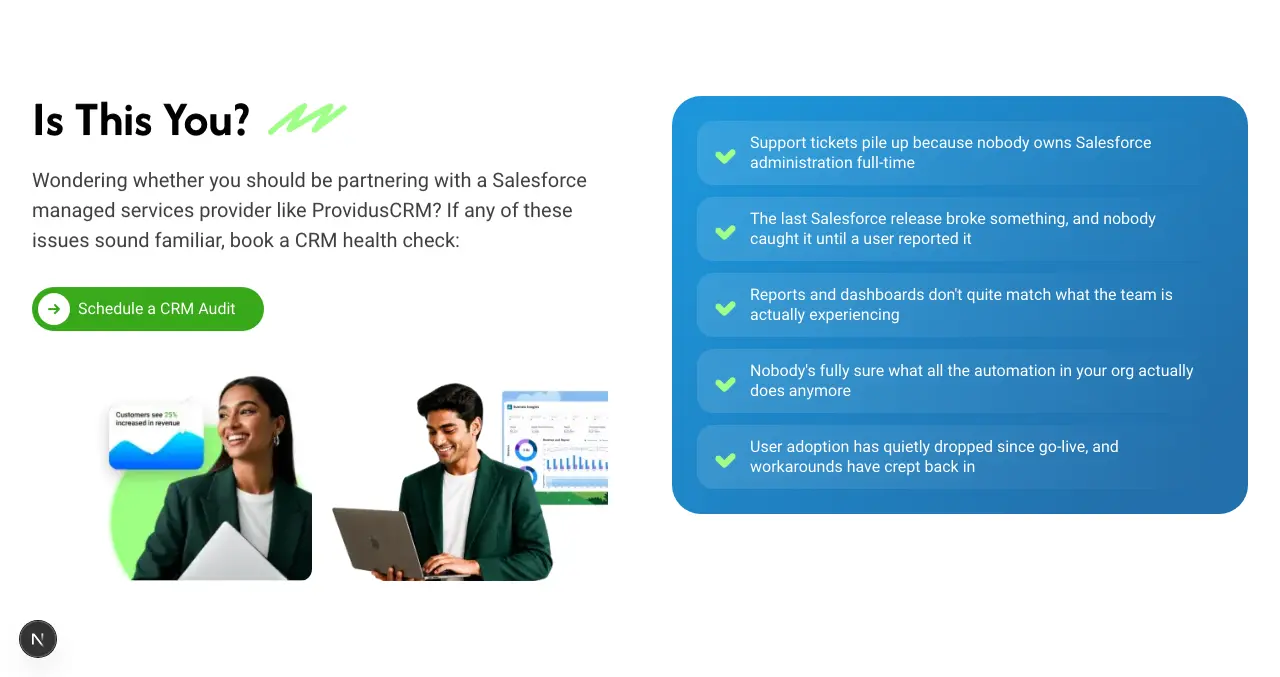
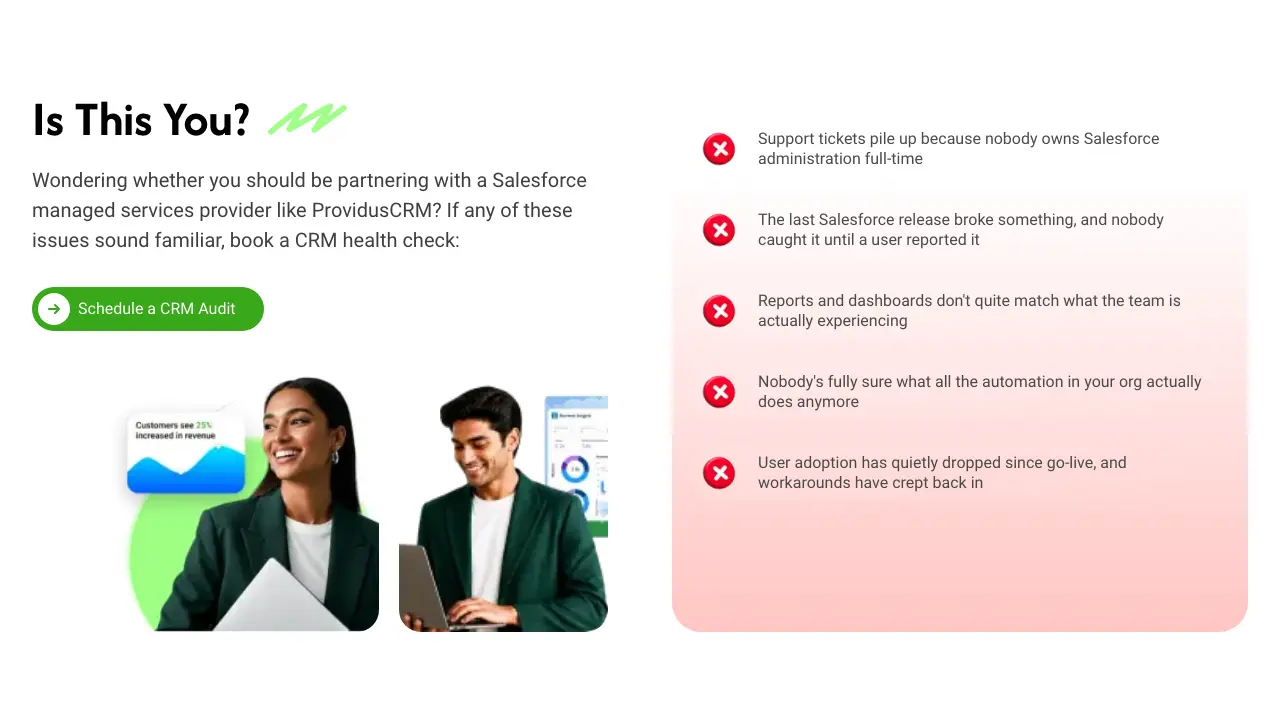
fix(service-page): red "Is This You?" panel with bottom-aligned images
Matches Figma 369:625: red gradient panel with cross markers, and the left
images pinned to the bottom of the panel.

diff --git a/src/components/sections/SplitChecklistSection.tsx b/src/components/sections/SplitChecklistSection.tsx
@@ -7,6 +7,7 @@ import { CtaButton } from "@/components/ui/CtaButton";
 import { GreenLineMark } from "@/components/ui/GreenLineMark";
 import { Reveal } from "@/components/ui/Reveal";
 import { Heading, Text } from "@/components/ui/Typography";
+import { cn } from "@/lib/utils";
 
 export interface SplitChecklistImage {
   src: string;
@@ -22,8 +23,14 @@ interface SplitChecklistSectionProps {
   items: string[];
 }
 
-// Figma 369:625 — left content column + right blue gradient checklist panel,
-// stacked below on smaller screens.
+// Figma 369:625 — left content column + right pink "pain point" panel of
+// red-cross rows, stacked below on smaller screens. The CMS allows at most two
+// images, shown in the design's 338:204 split.
+const IMAGE_BOXES = [
+  { aspect: "aspect-[338/254]", sizes: "(min-width: 1024px) 26vw, 60vw" },
+  { aspect: "aspect-[204/254]", sizes: "(min-width: 1024px) 16vw, 38vw" },
+];
+
 export function SplitChecklistSection({
   title,
   text,
@@ -37,9 +44,11 @@ export function SplitChecklistSection({
   return (
     <Section background="white">
       <Container>
-        <div className="grid items-start gap-10 lg:grid-cols-2 lg:gap-16">
-          <Reveal>
-            <div>
+        {/* Columns stretch to the same height so the images can sit on the
+            panel's bottom edge. */}
+        <div className="grid gap-10 lg:grid-cols-2 lg:gap-16">
+          <Reveal height="100%">
+            <div className="flex h-full flex-col">
               {title ? (
                 <Heading as="h2" className="text-black">
                   {title} <GreenLineMark className="ml-2 inline-block h-8 w-auto align-baseline" />
@@ -51,25 +60,30 @@ export function SplitChecklistSection({
                 </Text>
               ) : null}
               {ctaLabel && ctaHref ? (
-                <Link href={ctaHref} className="mt-8 inline-block">
+                <Link href={ctaHref} className="mt-8 self-start">
                   <CtaButton variant="filled" size="sm">
                     {ctaLabel}
                   </CtaButton>
                 </Link>
               ) : null}
               {images && images.length > 0 ? (
-                <div className="mt-10 flex gap-4">
-                  {images.map((image, index) => (
+                // pt-10 keeps the gap when the column has no spare height;
+                // mt-auto pushes the row down when it does.
+                <div className="mt-auto grid grid-cols-[338fr_204fr] gap-5 pt-10">
+                  {images.slice(0, IMAGE_BOXES.length).map((image, index) => (
                     <div
                       key={`${image.src}-${index}`}
-                      className="relative aspect-[4/3] w-1/2 overflow-hidden rounded-[12px]"
+                      className={cn(
+                        "relative overflow-hidden rounded-[22px]",
+                        IMAGE_BOXES[index].aspect
+                      )}
                     >
                       <Image
                         src={image.src}
                         alt={image.alt}
                         fill
                         className="object-cover"
-                        sizes="(min-width: 1024px) 25vw, 50vw"
+                        sizes={IMAGE_BOXES[index].sizes}
                       />
                     </div>
                   ))}
@@ -78,34 +92,23 @@ export function SplitChecklistSection({
             </div>
           </Reveal>
 
-          <Reveal delay={0.1}>
-            <div
-              className="rounded-[29px] p-[25px]"
-              style={{
-                background: "linear-gradient(132deg, #1C95DA 7%, #236FAB 88%)",
-              }}
-            >
-              <ul className="flex flex-col gap-3">
+          <Reveal delay={0.1} height="100%">
+            <div className="h-full rounded-[29px] bg-linear-to-b from-transparent from-[15%] to-checklist-red-end to-[109%] p-[25px]">
+              <ul className="flex flex-col gap-[25px]">
                 {items.map((row, index) => (
                   <li
                     key={`${row}-${index}`}
-                    className="flex min-h-[56px] items-center gap-3 rounded-[16px] bg-gradient-to-r from-[rgba(255,255,255,0.12)] to-transparent px-4 py-3"
+                    className="flex min-h-[56px] items-center gap-3.5 rounded-[16px] bg-linear-to-r from-white/12 to-transparent pr-4"
                   >
-                    <span
+                    <Image
+                      src="/images/checklist-cross.webp"
+                      alt=""
                       aria-hidden="true"
-                      className="h-[25px] w-[25px] shrink-0 bg-brand-green-light"
-                      style={{
-                        maskImage: 'url("/images/check-bold-mask.png")',
-                        WebkitMaskImage: 'url("/images/check-bold-mask.png")',
-                        maskSize: "contain",
-                        WebkitMaskSize: "contain",
-                        maskRepeat: "no-repeat",
-                        WebkitMaskRepeat: "no-repeat",
-                        maskPosition: "center",
-                        WebkitMaskPosition: "center",
-                      }}
+                      width={50}
+                      height={50}
+                      className="-ml-[3px] size-[50px] shrink-0"
                     />
-                    <span className="text-[16px] leading-[20px] font-medium text-white">
+                    <span className="text-[16px] leading-[20px] font-medium text-gray-500">
                       {row}
                     </span>
                   </li>
